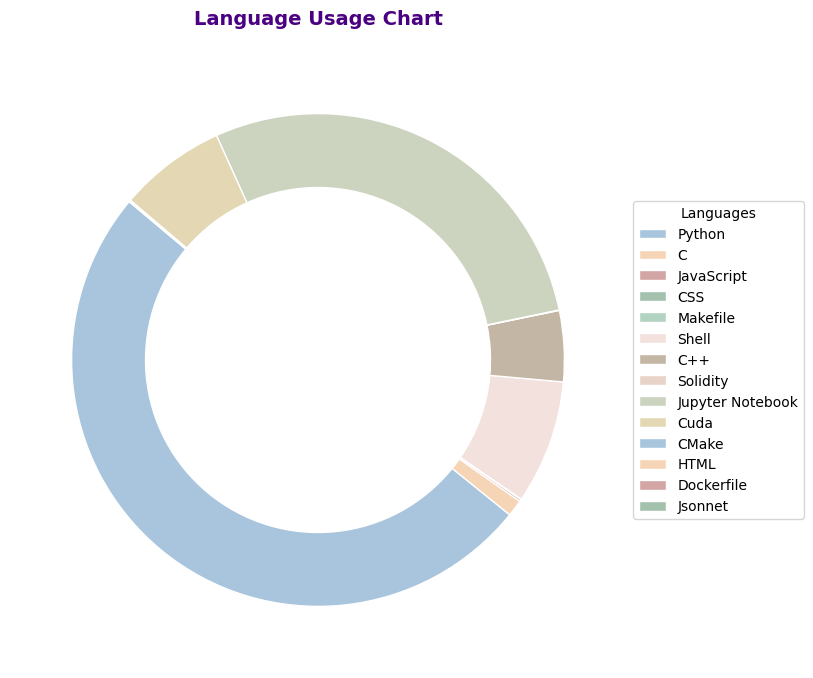
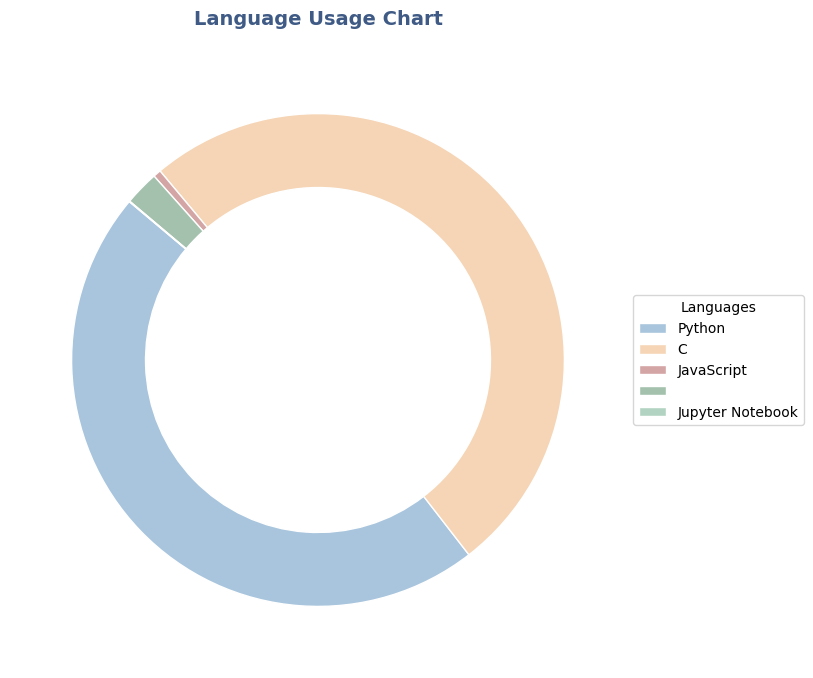
Staging changes before rebase

diff --git a/README.md b/README.md
@@ -1,28 +1,30 @@
 # Language Usage
-> [!NOTE]
-Last updated: 2024-11-08 16:56:17 UTC
 
-> [!CAUTION]
-> language_usage = total_steps_one_languages  / total_steps_all_languages
+[!NOTE]
+**Last updated:** 2024-11-08 18:55:30 UTC
 
-- Python: 50.3%
-- C: 1.09%
-- JavaScript: 0.14%
-- CSS: 0.02%
-- Makefile: 0.01%
-- Shell: 8.13%
-- C++: 4.65%
-- Solidity: 0.03%
-- Jupyter Notebook: 28.5%
-- Cuda: 7.02%
-- CMake: 0.03%
-- HTML: 0.03%
-- Dockerfile: 0.05%
-- Jsonnet: 0.0%
+[!CAUTION]
+**language_usage = total_steps_languages:** 2024-11-08 18:55:30 UTC
+
+- Python: 46.61%
+- C: 50.59%
+- JavaScript: 0.51%
+- None: 2.26%
+- Jupyter Notebook: 0.04%
 
 ![Language Usage Chart](language_usage.png)
 
 ## Language Details (Top 3)
+
+### C
+- File count: 488
+- Max steps in a file: 86680
+- Top imports:
+  - import React: 3 times
+  - import Web3: 2 times
+  - import App: 2 times
+  - import ReactDOM: 1 times
+  - import reportWebVitals: 1 times
 
 ### Python
 - File count: 5338
@@ -34,12 +36,7 @@ Last updated: 2024-11-08 16:56:17 UTC
   - import numpy: 381 times
   - import sys: 346 times
 
-### Jupyter Notebook
-- File count: 1
-- Max steps in a file: 2250
-- Top imports:
-
-### Shell
-- File count: 0
-- Max steps in a file: 0
+### None
+- File count: 11
+- Max steps in a file: 58646
 - Top imports:
